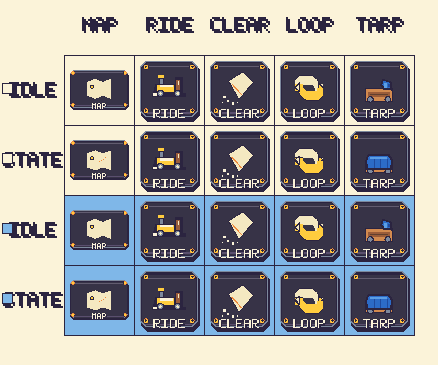
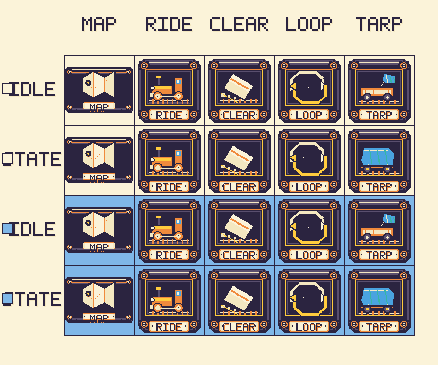
art: correct AR69 with Track plaque language
Replace the sparse header keycaps with bottom-panel-style brass/iron plaques and verified 70px scene vignettes.

diff --git a/ART_REQUESTS.md b/ART_REQUESTS.md
@@ -144,7 +144,7 @@ or a coloured full-canvas backdrop.
 
 ### Added 2026-08-30 (rev 8) — integration QA correction
 
-#### ✅ DELIVERED 2026-08-30 — AR-069 · Make the unified Track controls readable at their real size — P0
+#### ✅ CORRECTED 2026-08-30 — AR-069 · Make the unified Track controls readable at their real size — P0
 
 **Why this is reopened:** AR-064/065 passed canvas, alpha, palette and paired-
 state registration checks, but failed the production-size review after the
@@ -345,7 +345,7 @@ railhead. The body canvases are not being redrawn in this request.
 
 | Request | Delivered files | Engineering handoff measurement |
 |---|---|---|
-| **AR-069** | Redrawn MAP, RIDE, CLEAR, LOOP, and TARP source pairs, plus `design/review/ar069-controls-70px.png`. | All ten faces retain their filenames/canvases and matching paired alpha boxes. The proof sheet contains literal 70×70px idle/state previews on cream and sky-blue backgrounds; the packed UI atlas was rebuilt. |
+| **AR-069** | Corrected MAP, RIDE, CLEAR, LOOP, and TARP source pairs, plus `design/review/ar069-controls-70px.png`. | The sparse flat keycaps were replaced with bottom-panel-style iron/plum plaques: brass cog corners, riveted rails, recessed brass-edged action vignettes, cream engraved nameplates, and hard physical shadows. All ten faces retain their filenames/canvases and matching paired alpha boxes. The literal 70×70px cream/sky proof and the Track V3 in-scene check passed; the packed UI atlas was rebuilt. |
 | **AR-064** | TARP idle/seated keycap pair plus four car-specific tarp overlays. | Keycap states have identical content boxes; covers retain transparent wheel clearance and livery/nameplate aperture. |
 | **AR-065** | Unified MAP, RIDE, STOP, CLEAR, SEND, SLOW, FAST, LOOP, and TARP control family plus `track-speed-readout.png`. | SPEED display window: `x=122, y=168, w=268, h=128` in the native 512² canvas. |
 | **AR-066** | Left/right portals, tileable roof and wall, and matched unlit/lit lamp frames. | Roof and wall have matching left/right pixel seams; mount them as independent scrolling layers. |
